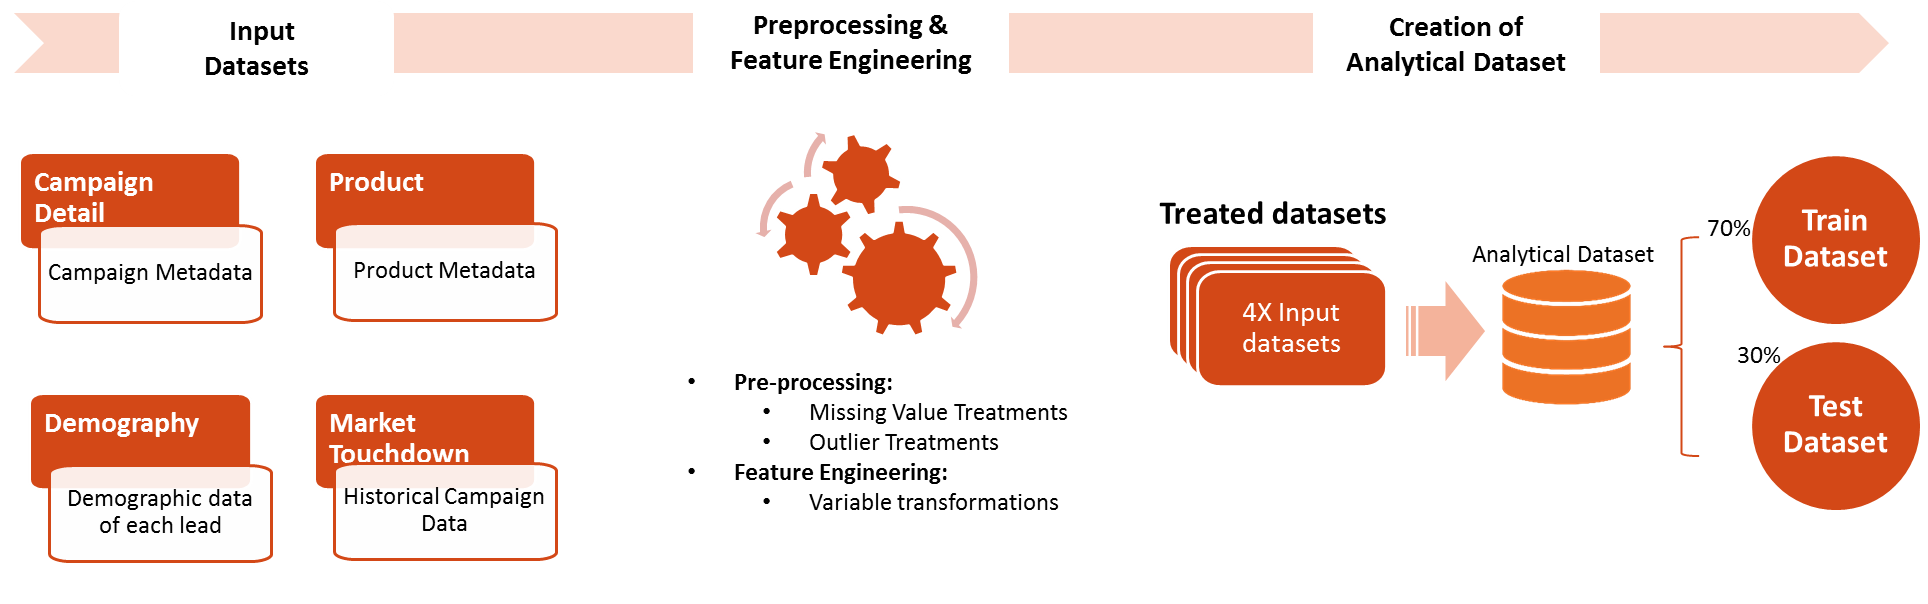
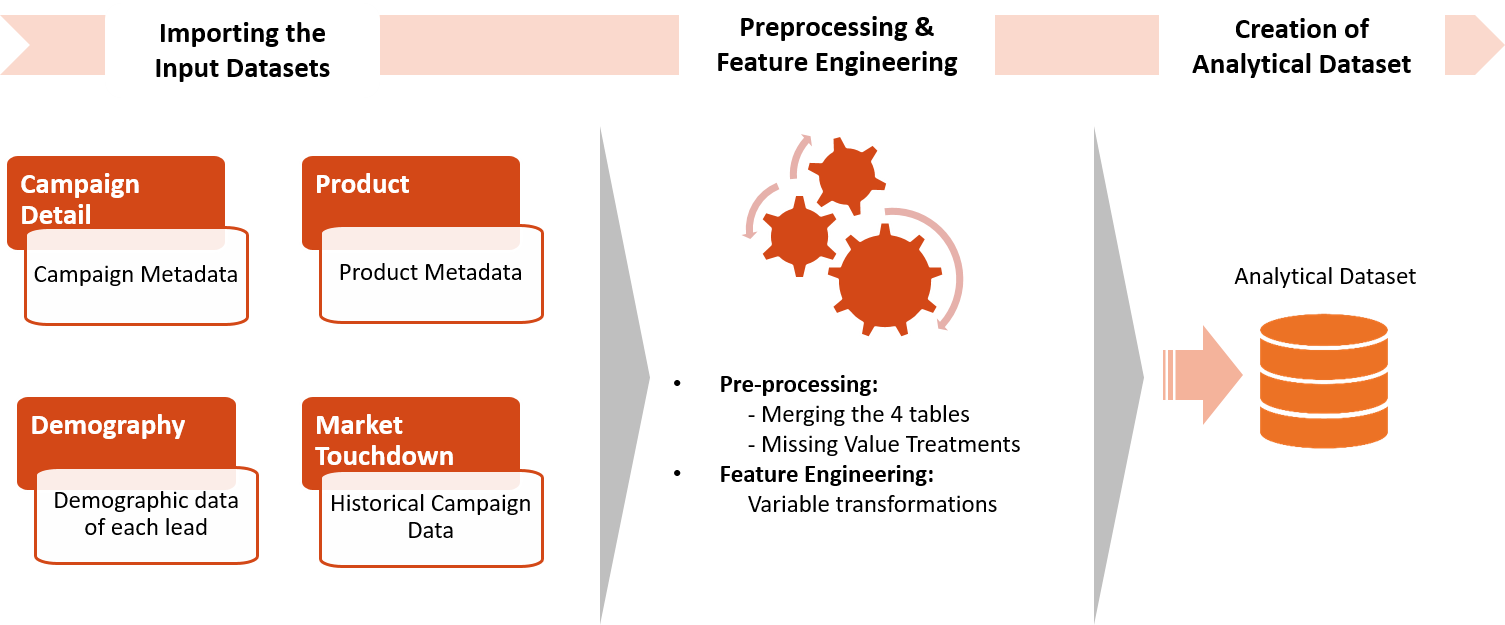
changes from Carl

diff --git a/Resources/data-scientist.md b/Resources/data-scientist.md
@@ -1,7 +1,7 @@
+<img src="../Images/management.png" align="right">
 # For the Data Scientist
 
 <div style="width:200px; float:right; padding-left:20px">
-<img src="../Images/management.png" >
 <h2>Table of Contents</h2>
 <ul style=" list-style-type:none; padding:0; margin-left:0px;">
 <li><a href="#analytical-dataset-preprocessing-and-feature-engineering">Analytical Dataset Preprocessing and Feature Engineering</a></li>
@@ -12,67 +12,79 @@
 <li><a href="#system-requirements">System Requirements</a></li>
 </div>
 
-SQL Server R Services brings the compute to the data by running R on the computer that hosts the database. It includes a database service that runs outside the SQL Server process and communicates securely with the R runtime. 
+#<img src="Images/management.png" align="right">
 
-This solution walks through the steps to create and refine data, train R models, and perform scoring on the SQL Server machine. The final scored database table in SQL Server gives the recommendations for **how** and **whe** to contact each lead. This data is then visualized in PowerBI, which also contains a summary of the success of the recommendations used in your new campaign after it has completed. (Simulated data is shown in this template to illustrate the feature.)
+# For the Data Scientist
+
+SQL Server R Services takes advantage of the power of SQL Server and RevoScaleR (Microsoft R Server package) by allowing R to run on the same server as the database. 
+
+It includes a database service that runs outside the SQL Server process and communicates securely with the R runtime. 
+
+This solution package shows how to pre-process data (cleaning and feature engineering), train prediction models, and perform scoring on the SQL Server machine. 
+
+Data scientists who are testing and developing solutions can work from the convenience of their R IDE on their client machine, while [setting the computation context to SQL] (https://msdn.microsoft.com/en-us/library/mt604885.aspx) (see **R** folder for code).  They can then deploy the completed solutions to SQL Server 2016 by embedding calls to R in stored procedures (see **SQLR** folder for code). These solutions can then be further automated by the use of SQL Server Integration Services and SQL Server agent: a PowerShell script (.ps1 file) automates the running of the SQL code.
 
 
-Data scientists who are testing and developing solutions can work, conveniently, from their favorite R IDE on their client machine and then <a href="https://msdn.microsoft.com/en-us/library/mt604885.aspx" target="_blank">push the compute to the SQL Server machine</a>.  The completed solutions are deployed to SQL Server 2016 by embedding calls to R in stored procedures. These solutions can then be further automated with SQL Server Integration Services and SQL Server agent.
+## Campaign Optimization
 
-This solution packet includes the R code a data scientist would develop in the **R** folder.  It then incorporates this R code in  stored procedures (.sql files) that can be found in the **SQLR** folder.  Finally, there is a PowerShell script (.ps1 file) that automates the running of the SQL/R code.
- 
+This template is focused on marketing campaign optimization. In particular, customer-oriented businesses can learn patterns from their data to intelligently design acquisition campaigns and convert the highest possible number of customers. 
+
+Among the key variables to learn from data are the best communication channel (e.g. SMS, Email, Call), the day of the week and the time of the day through which/ during which a given potential customer is targeted by a marketing campaign.
+
+In this template, the final scored database table in SQL Server gives the recommendations for how and when to contact each lead. This data is then visualized in PowerBI. Also in PowerBI is a summary of the success of the recommendations after the new campaign has completed (shown in this template with simulated data).
+
 To try this out yourself, see the [Quick Start](../readme.md#quickstart) section on the main page.
 
-This page describes what happens in each of the steps: dataset creation, model development, scoring, and deployment in more detail.
+This page describes what happens in each of the steps: dataset creation, model development, recommendations, and deployment in more detail.
+
 
 ##  Analytical Dataset Preprocessing and Feature Engineering
 
-This templage simulates input data and performs preprocessing and feature engineering to create the analytical dataset. 
-
-The R code to perform these steps can be run from an R client with the following scripts:
+This part simulates input data and performs preprocessing and feature engineering to create the analytical dataset. 
+The **R** code to perform these steps can be run from an R client with the following scripts:
 
 ### step1_data_processing.R
 
-This script creates the database tables and performs missing value and outlier treatment on the lead demography and market touchdown tables. Both these updated tables are then exported back to SQL Server.
-
-1.	Market Touchdown: The Communication latency variable in this table was created to have outliers. The lower extremes are replaced with the difference of Mean and Standard Deviation. The higher extremes are replaced with the sum of Mean and two Standard Deviations
-
-2.	Lead Demography: The missing values in variables like number of children/dependents, highest education & household size are replaced with the Mode value.
-
+This script exports the 4 input data sets to SQL tables, merges them, and then performs missing value treatment on the raw table in-database.
 
 ### step2_feature_engineering.R
 
-This script performs feature engineering on the Market Touchdown table and then merges to generate the Analytical Dataset. Finally, the analytical dataset along with training and test datasets are exported to SQL Server.
+This script performs feature engineering in-database to generate the Analytical Dataset. 
 
-1.	Market Touchdown: The table is aggregated at a lead level, so variables like channel which will have more than one value for each user are pivoted and aggregated to from variables like SMS count, Email count, Call Count, Last Communication Channel, Second Last Communication Channel etc.
+1.	SMS_Count, Call_Count, Email_Count: number of times every customer (Lead_Id) has been contacted through every Channel.
 
-2.	Analytical Dataset: Analytical Dataset: The latest version of all the 4 input datasets are merged together to create the analytical dataset. The analytical dataset is further split into train and test datasets. Some temporary tables are created which will later be overwritten with model variables in step_4.
+2.	Previous_Channel: the previous channel used towards every customer for every campaign activity. 
 
+Finally, only the latest campaign activity for every customer is kept.
+
+The corresponding **SQL** stored procedures can be run manually after loading the data into tables with PowerShell. They can be found in the scripts **step1_data_processing.sql** and **step2_feature_engineering.sql**.
 
 ![Data Processing ](Images/datacreate.png?raw=true)
 
 ## Model Development
-Two models, Random Forest and Gradient Boosting are developed to model Campaign Responses.  The R code to develop these models is included in the **step4_model_rf_gbm.R script**.
+Two models, Random Forest and Gradient Boosting are developed to model Campaign Responses.  The **R** code to develop these models is included in the **step3_training_evaluation.R script**.
 
-## step3_training_evaluation.R
+### step3_training_evaluation.R
 
-In this step, two models are built using 2 statistical techniques on the training Dataset. Once the models are trained, AUC of both the models are calculated using the test dataset. The model with the best AUC is selected as the champion model.
+In this step, after splitting the analytical data set into a training and a testing set, two prediction models are built (Random Forest and Gradient Boosted Trees) on the training set. Once the models are trained, AUC of both the models are calculated using the testing set. The model with the best AUC is selected as the champion model and will be used for recommendations.
+
+The corresponding **SQL** stored procedures can be run manually. They can be found in the scripts **step3a_splitting.sql**, **step3b_train_model.sql**, and **step3c_test_model.sql**.
 
 ![Training / Testing ](Images/model.png?raw=true)
 
-
 ##  Scoring
+The champion model is used to provide recommendations about how and when to contact each customer. The **R** code to provide the recommendations is inlcuded in the **step4_campaign_recommendations.R script**.
 
-The models are compared and the champion model is used for scoring.  The prediction results from the scoring step are the recommendations for contact for the campaigns - when and how to contact each lead for the optimal predicted response rate.
+### step4_campaign_recommendations.R
 
-## step4_campaign_recommendations.R
+This script creates a full table with 63 rows for each customer, corresponding to the possible 63 combinations of day, time and channel (7 Days x 3 Times x 3 Channels = 63).  Each combination is scored with the champion model and, for each customer, the one with the highest conversion probability is used as the recommendation for that lead.  Results from this step are stored in the **Recommendations** database table. 
 
-This script scores 63 combinations for each lead: 7 Days x 3 Times x 3 Channels = 63.  Each combination is scored with the best model and the combo with the highest conversion probability is used as the recommendation for that lead.  Results from this step are stored in the **Recommendations** database table. 
+The corresponding **SQL** stored procedures can be run manually in **step4_campaign_recommendations.sql**. 
 
 ![Scoring](Images/model_score.png?raw=true)
 
   
-##  Deploy and Visualize Results
+##  Deploy / Visualize Results
 The deployed data resides in a newly created database table, showing recommendations for each lead.  The final step of this solution visualizes these recommendations, and once the new campaigns have been completed we can also visualize a summary of how well the model worked.  
 
 ![Visualize](Images/visualize.png?raw=true)
@@ -100,4 +112,3 @@ To try this out yourself:
 * View the [Quick Start](../readme.md#quickstart) section on the main page.
 
 [&lt; Back to ReadMe](../readme.md)
-
